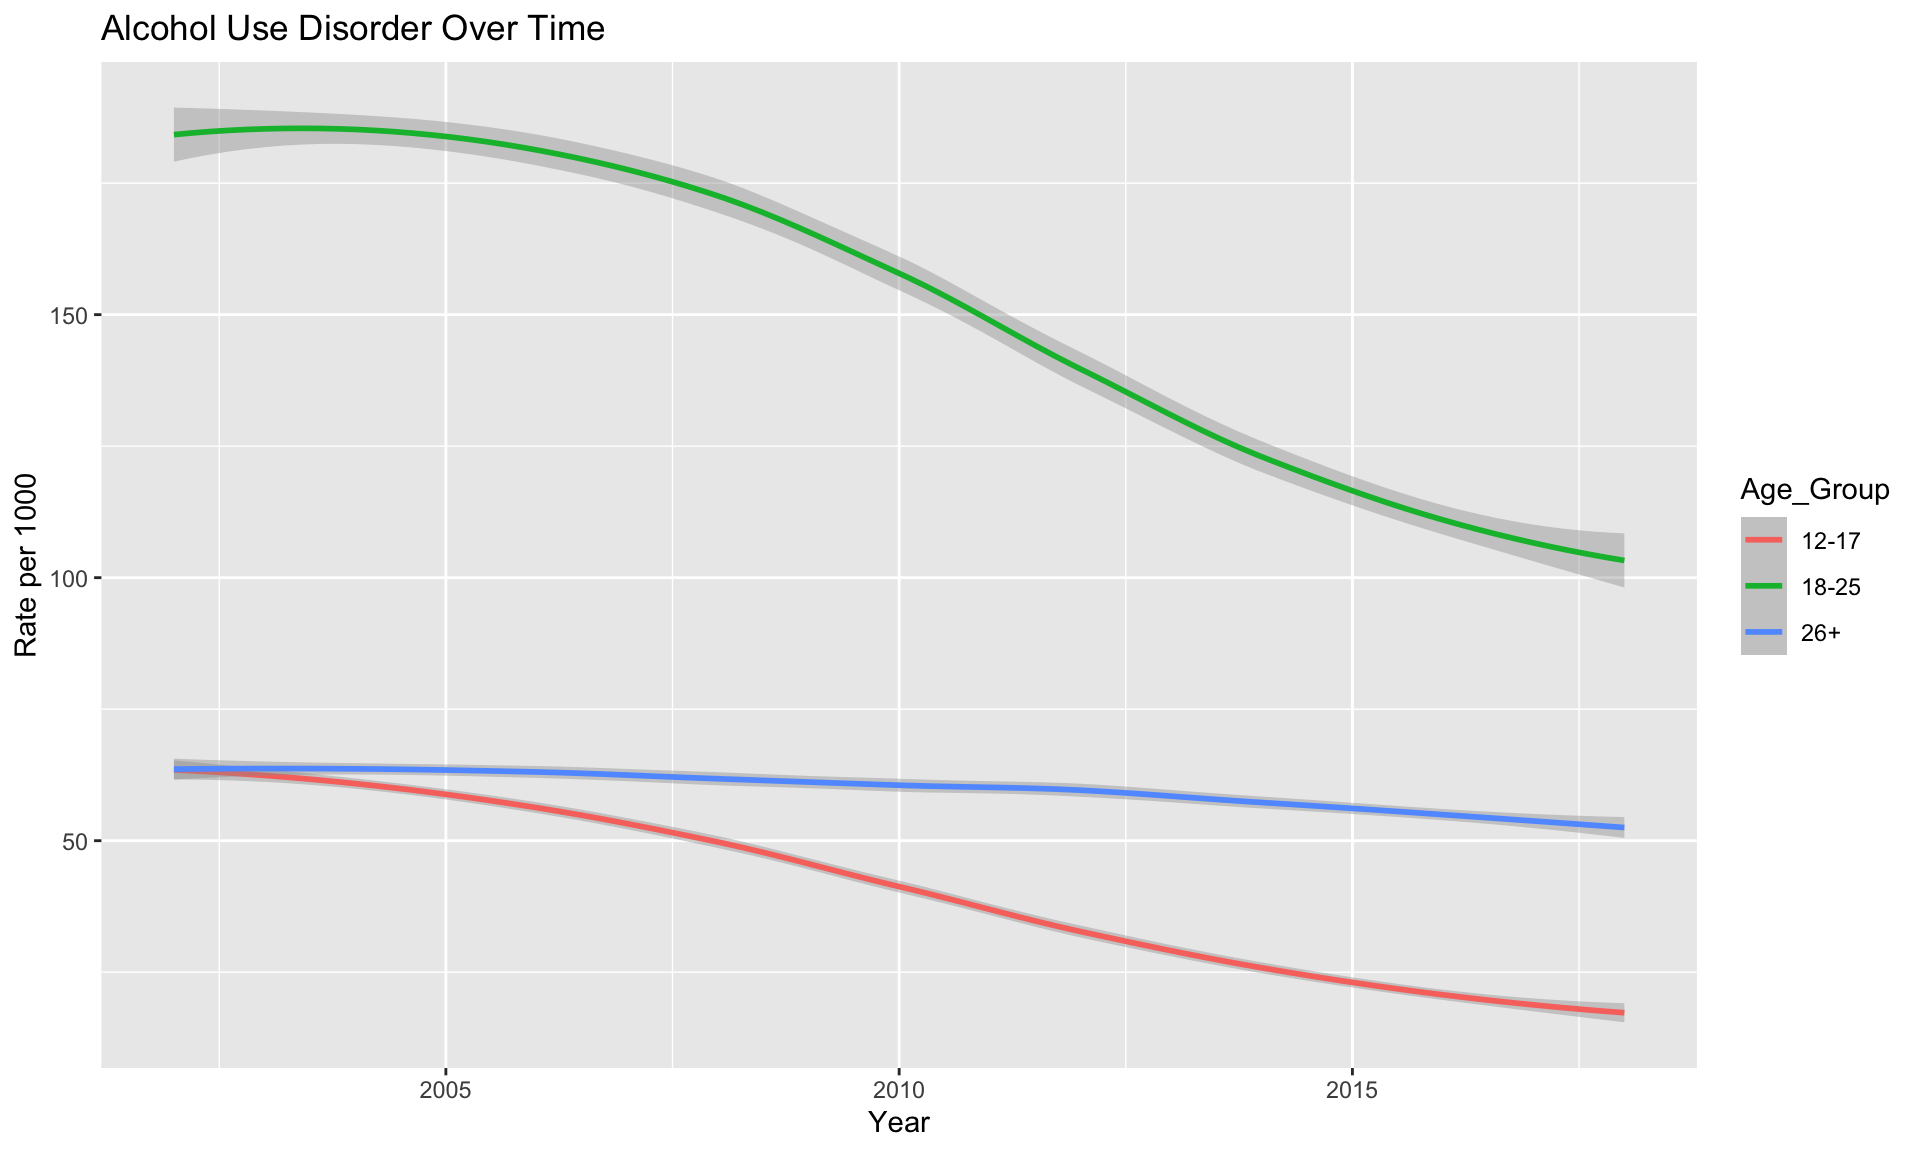
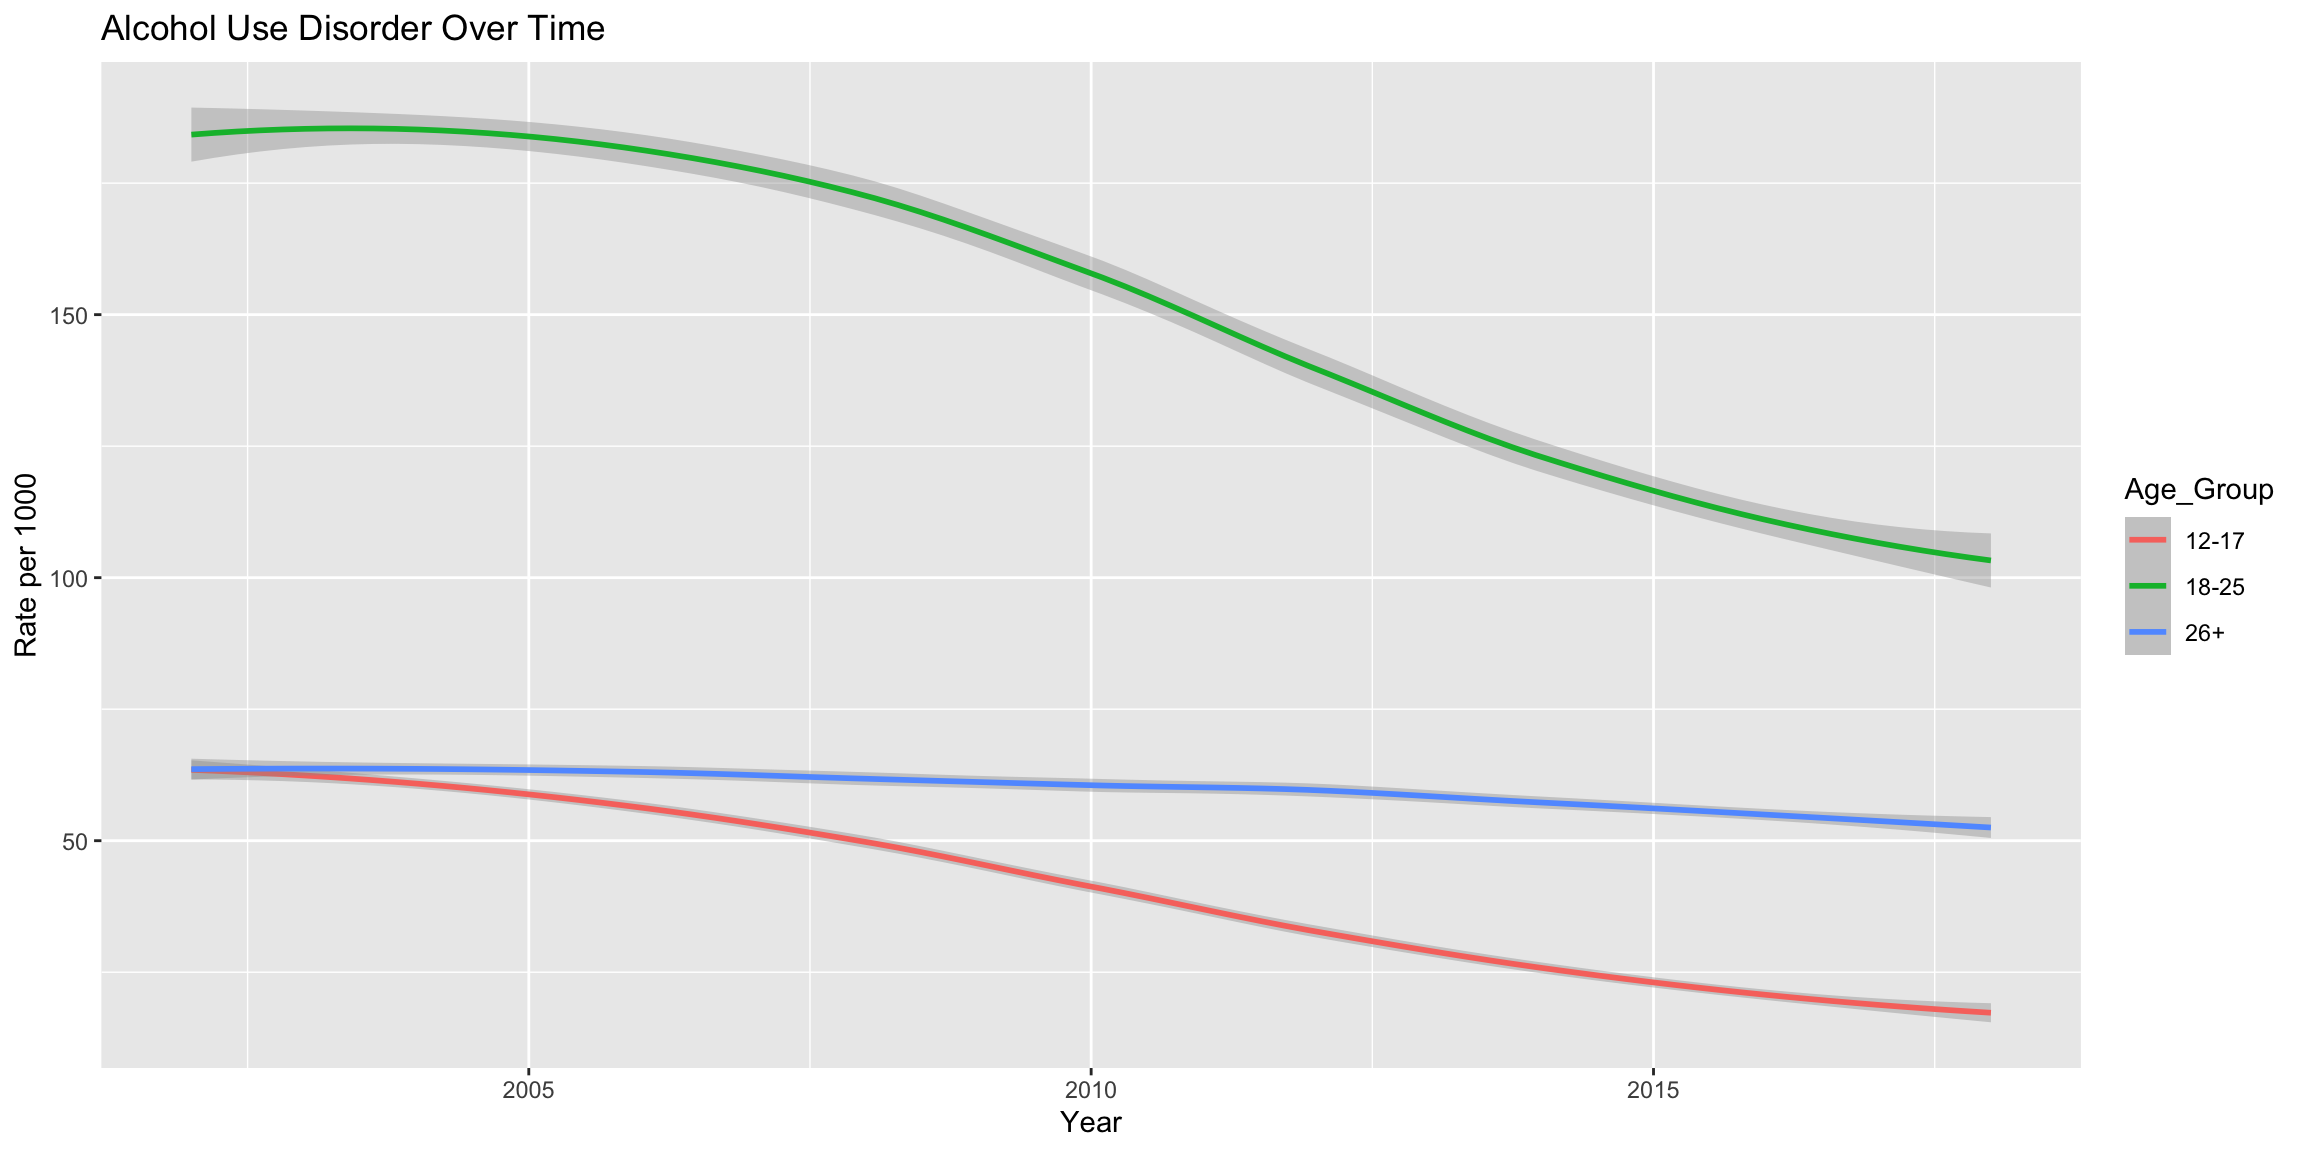
Add team members names, move descriptions under visuals.

diff --git a/presentation/Presentation.html b/presentation/Presentation.html
@@ -9,7 +9,8 @@
 <link href="Presentation_files/libs/quarto-html/quarto-syntax-highlighting-7b89279ff1a6dce999919e0e67d4d9ec.css" rel="stylesheet" id="quarto-text-highlighting-styles"><meta charset="utf-8">
   <meta name="generator" content="quarto-1.8.25">
 
-  <title>Presentation</title>
+  <meta name="author" content="Charles Gao Andrew Hwang Jason Huffstutter Andrew Hahm">
+  <title>Best Presentation</title>
   <meta name="apple-mobile-web-app-capable" content="yes">
   <meta name="apple-mobile-web-app-status-bar-style" content="black-translucent">
   <meta name="viewport" content="width=device-width, initial-scale=1.0, maximum-scale=1.0, user-scalable=no, minimal-ui">
@@ -126,11 +127,28 @@
     <div class="slides">
 
 <section id="title-slide" class="quarto-title-block center">
-  <h1 class="title">Presentation</h1>
+  <h1 class="title">Best Presentation</h1>
+  <p class="subtitle">Stats 115 Final Project</p>
 
 <div class="quarto-title-authors">
+<div class="quarto-title-author">
+<div class="quarto-title-author-name">
+Charles Gao<br>Andrew Hwang<br>Jason Huffstutter<br>Andrew Hahm 
+</div>
+</div>
 </div>
 
+</section>
+<section id="background-motivation" class="slide level2">
+<h2>Background &amp; Motivation</h2>
+<p>TO DO</p>
+</section>
+<section id="our-research-question" class="slide level2">
+<h2>Our Research Question</h2>
+<ul>
+<li>How do years of economic hardship (2008) affect alcohol rates across all age groups?</li>
+<li>Did early state-level marijuana legalization in 2012 (Washington, Colorado) and 2014 (Alaska, Oregon) represent a causal driver of increased usage, or did usage rates simply follow the national trajectory?</li>
+</ul>
 </section>
 <section id="dataset-overview" class="slide level2">
 <h2>Dataset Overview</h2>
@@ -164,15 +182,24 @@
 <section id="marijuana-trends-by-age" class="slide level2">
 <h2>Marijuana Trends by Age</h2>
 
-<img data-src="Presentation_files/figure-revealjs/unnamed-chunk-3-1.png" width="960" class="r-stretch"></section>
+<img data-src="Presentation_files/figure-revealjs/unnamed-chunk-3-1.png" width="1152" class="r-stretch"><div style="font-size: 60%;">
+<p>The 18–25 age group shows an increasing rate per 1,000 over time and remains significantly higher than the other two age groups.</p>
+</div>
+</section>
 <section id="alcohol-disorder-trends" class="slide level2">
 <h2>Alcohol Disorder Trends</h2>
 
-<img data-src="Presentation_files/figure-revealjs/unnamed-chunk-4-1.png" width="960" class="r-stretch"></section>
+<img data-src="Presentation_files/figure-revealjs/unnamed-chunk-4-1.png" width="1152" class="r-stretch"><div style="font-size: 60%;">
+<p>The 18–25 age group still shows the highest alcohol disorder rate per 1,000, but rates for all three age groups gradually decrease over time.</p>
+</div>
+</section>
 <section id="tobacco-trends" class="slide level2">
 <h2>Tobacco Trends</h2>
 
-<img data-src="Presentation_files/figure-revealjs/unnamed-chunk-5-1.png" width="960" class="r-stretch"></section>
+<img data-src="Presentation_files/figure-revealjs/unnamed-chunk-5-1.png" width="1152" class="r-stretch"><div style="font-size: 60%;">
+<p>The 18–25 age group shows the highest tobacco usage rate per 1,000. Rates for all three age groups gradually decline over time, but at different speeds, with the 18–25 group eventually converging with the 26+ group.</p>
+</div>
+</section>
 <section id="top-states-marijuana-use" class="slide level2">
 <h2>Top States: Marijuana Use</h2>
 
@@ -192,17 +219,8 @@
 <section id="all-substance-trends" class="slide level2">
 <h2>All Substance Trends</h2>
 
-<img data-src="Presentation_files/figure-revealjs/unnamed-chunk-9-1.png" width="1152" class="r-stretch"></section>
-<section id="initial-analysis-1" class="slide level2">
-<h2>Initial Analysis (1)</h2>
-<p>From Marijuana Trends by age, Alcohol Disorder Trends, Tobacco Trends (The complete pool of all states)</p>
-<ul>
-<li><p>Age group from 18-25 display increasing rate per 1000 over time, and significantly higher compare to the other two age groups.</p></li>
-<li><p>Age group from 18-25 still present higher disorder rate per 1000, but the rate for all 3 age groups are gradually decreasing over time.</p></li>
-<li><p>Age group from 18-25 display higher higher tobacco usage rate per 1000. The rate for all 3 age groups are gradually decreasing but at different speed, where age group 18-25 meets the usage rate with age group from 26+</p></li>
-</ul>
 
-</section>
+<img data-src="Presentation_files/figure-revealjs/unnamed-chunk-9-1.png" width="1152" class="r-stretch"></section>
     </div>
   <div class="quarto-auto-generated-content" style="display: none;">
 <div class="footer footer-default">
